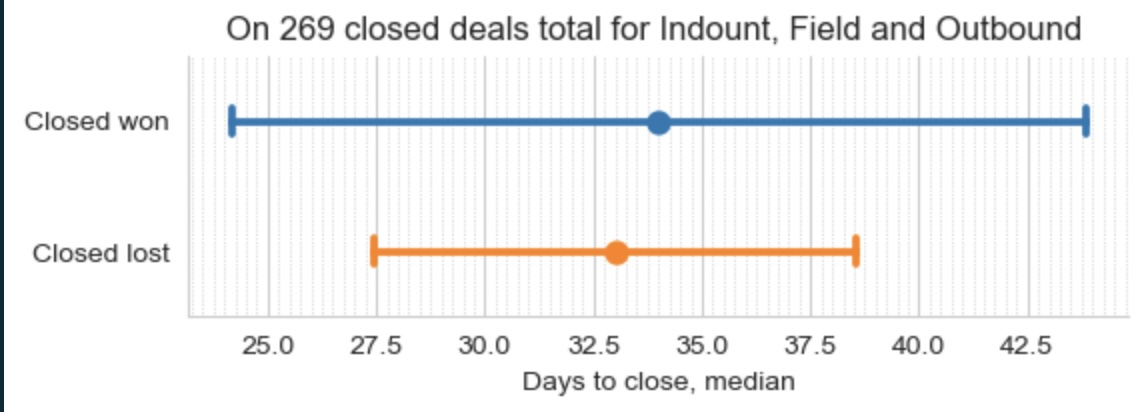
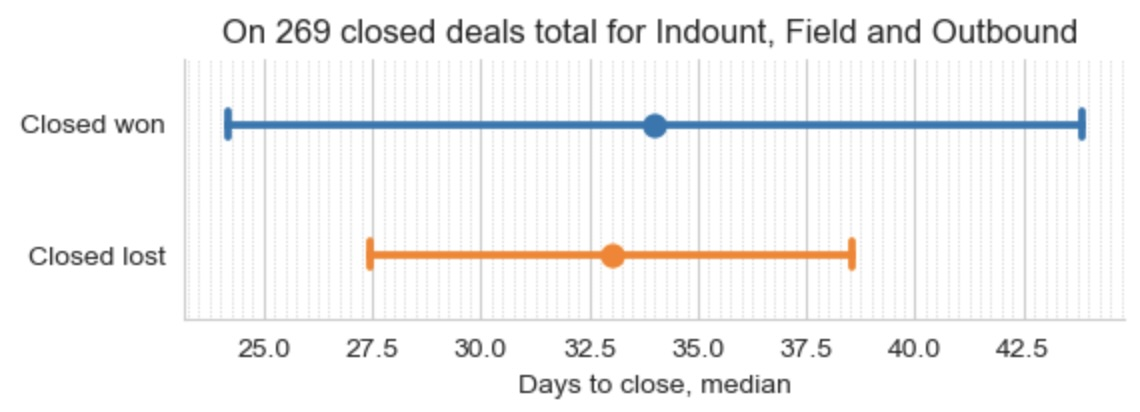
swag 23 minor closing touches

diff --git a/swag_23_pipeline_correlations/README.md b/swag_23_pipeline_correlations/README.md
@@ -114,7 +114,7 @@ inbound winrate is statistically higher than Outbound, conforming to known marke
 
 Inbound deals have a median closing time of 27 days, while outbound deals take 43 days - it is statistically significant. Field deals are similar to inbound at 30 days median, but their confidence interval extends more upward.
 
-<img src="https://github.com/outovhush/revops-portfolio/blob/main/swag_23_pipeline_correlations/102_wonlost_deal_cycles_total.jpg" width=50% height=50%>
+<img src="https://github.com/outovhush/revops-portfolio/blob/main/swag_23_pipeline_correlations/102_wonlost_deal_cycles_total.jpg" width=60% height=60%>
 
 There is no significant difference in median close time between Won and Lost across all three channels, however bigger variance for won deal cycles is notable.  
 
